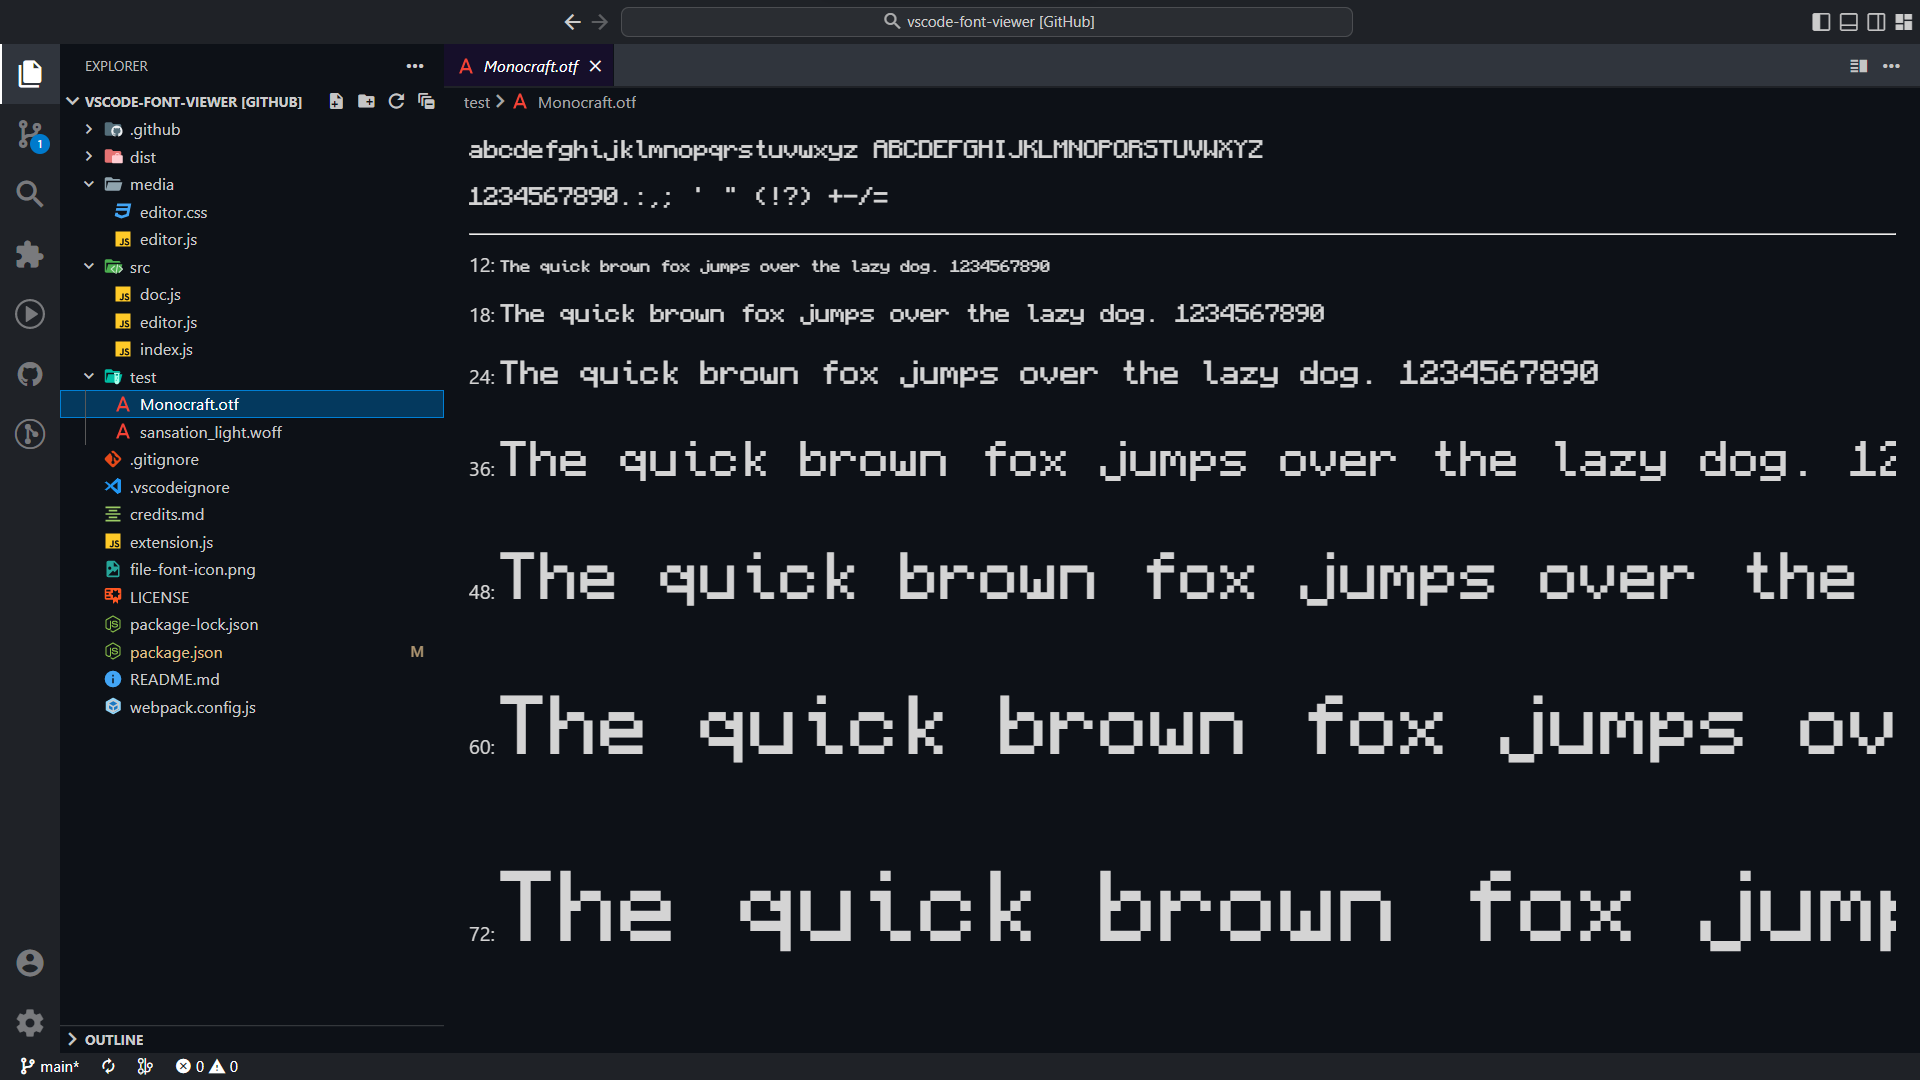
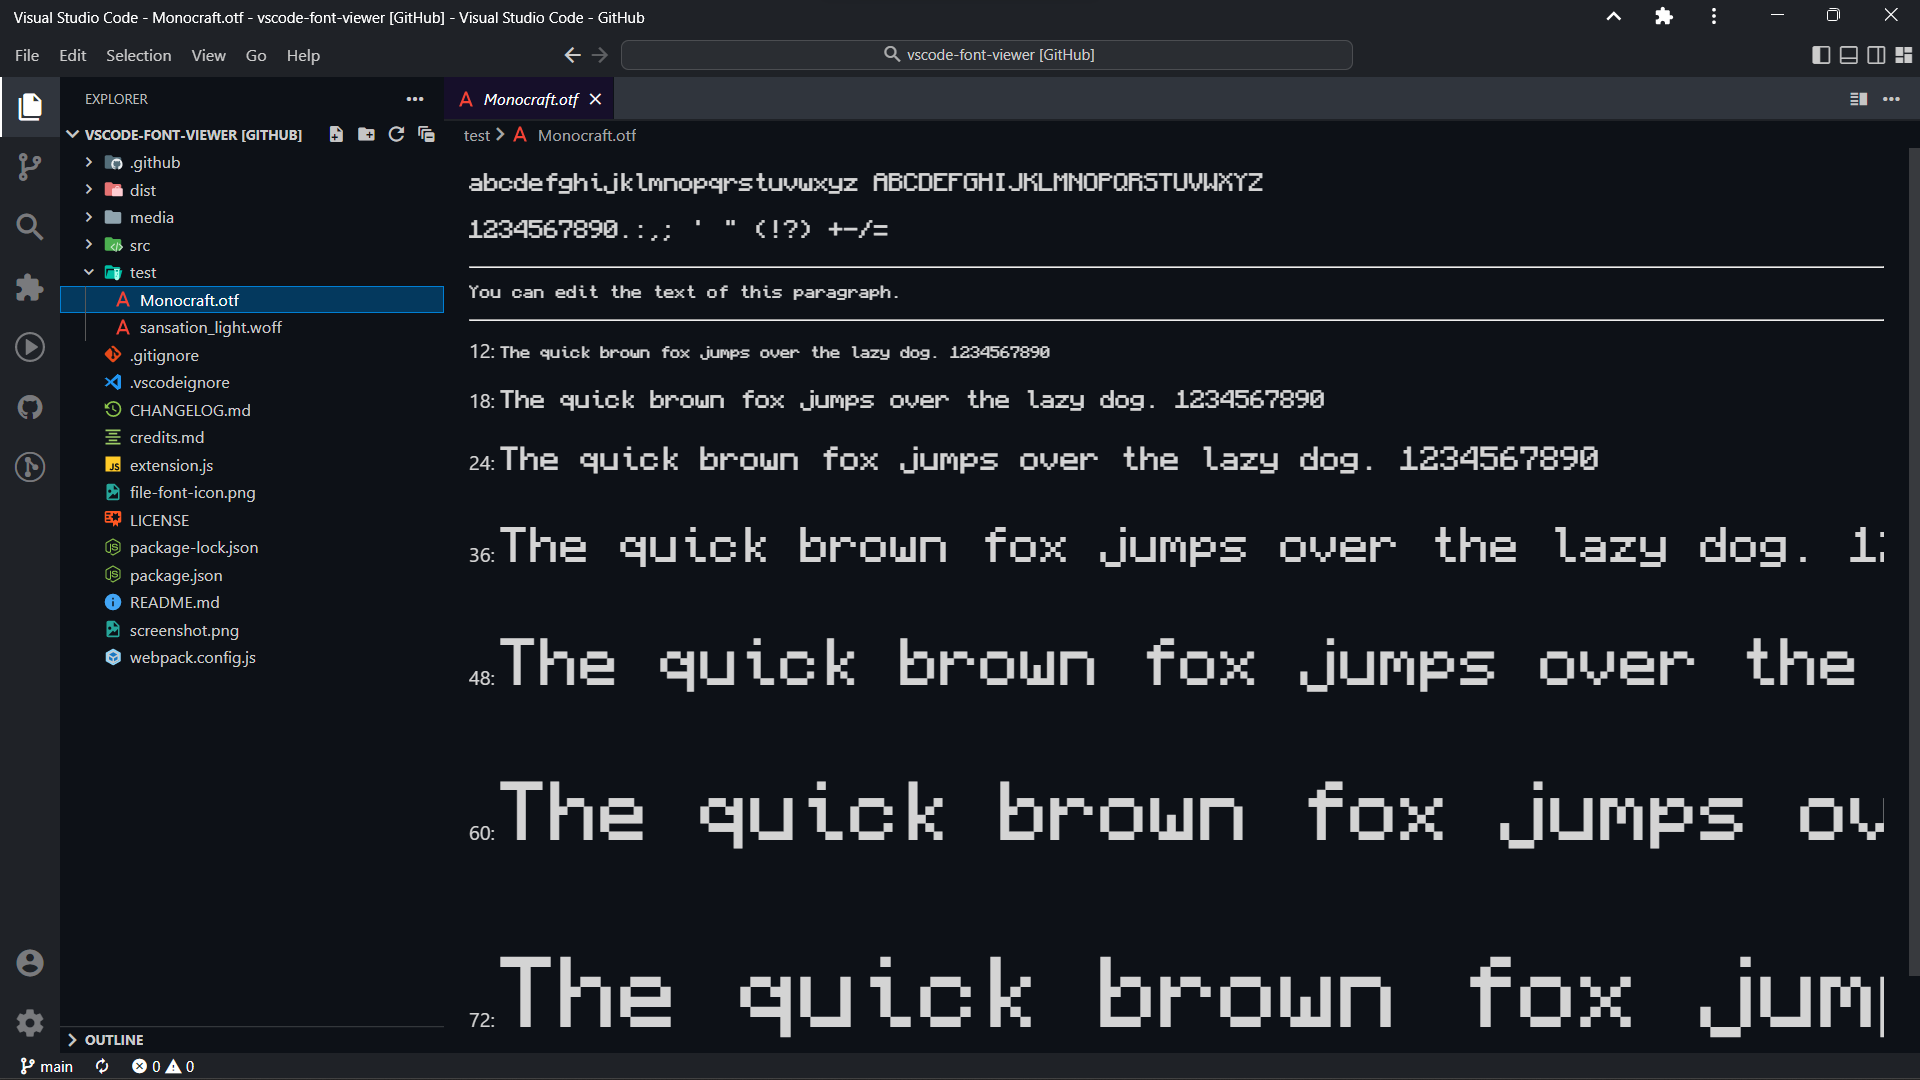
update readme screenshot

diff --git a/README.md b/README.md
@@ -12,4 +12,8 @@ This extension, based on the Windows font preview, allows you to get an idea of 
 
 Install the extension from the Extensions sidebar panel `adamraichu.font-viewer`, or from the [Marketplace](https://marketplace.visualstudio.com/items?itemName=AdamRaichu.font-viewer).
 
+Upon opening a font file, the editor will display several paragraphs of text at different sizes.
+
+The text of the paragraph separated by two lines is editable.
+
 If you would like another type of font file to be supported, please [submit an issue](https://github.com/AdamRaichu/vscode-font-viewer/issues/new/choose).
